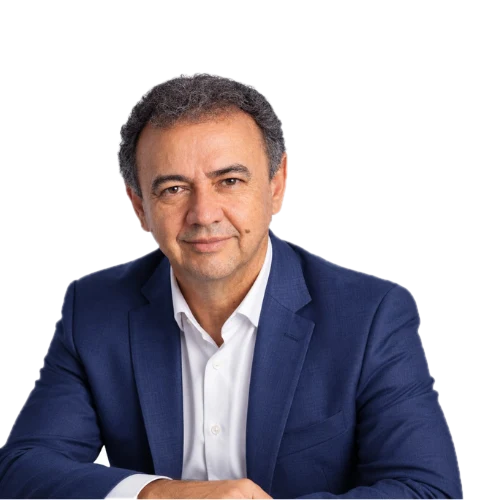
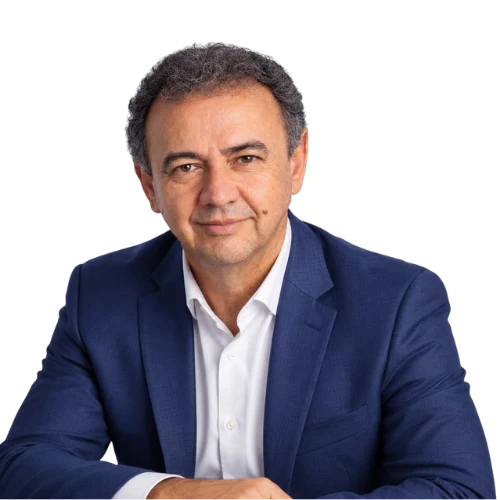
Site: nova foto do Dr. Prof. Anilson Martins (fundo transparente) e enquadramento ajustado

diff --git a/index.html b/index.html
@@ -573,7 +573,7 @@
   .foto-palestrante img[src*="luciano-pinheiro"]{ transform:scale(1.65); transform-origin:center 31%; }
   .foto-palestrante img[src*="thais-bragatto"]{ transform:scale(1.3); transform-origin:80% 50%; }
   .foto-palestrante img[src*="zeno-castilho"]{ transform:scale(1.65); transform-origin:58% 32%; }
-  .foto-palestrante img[src*="anilson-martins"]{ transform:scale(1.45); transform-origin:19% 37%; }
+  .foto-palestrante img[src*="anilson-martins"]{ transform:scale(1.37); transform-origin:24% 19%; }
   .foto-palestrante img[src*="lourival"]{ transform:scale(1.45); transform-origin:60% 68%; }
   .foto-palestrante img[src*="valeria-martins"]{ transform:scale(1.1); transform-origin:28% 49%; }
   .foto-placeholder{ display:flex; align-items:center; justify-content:center; }
